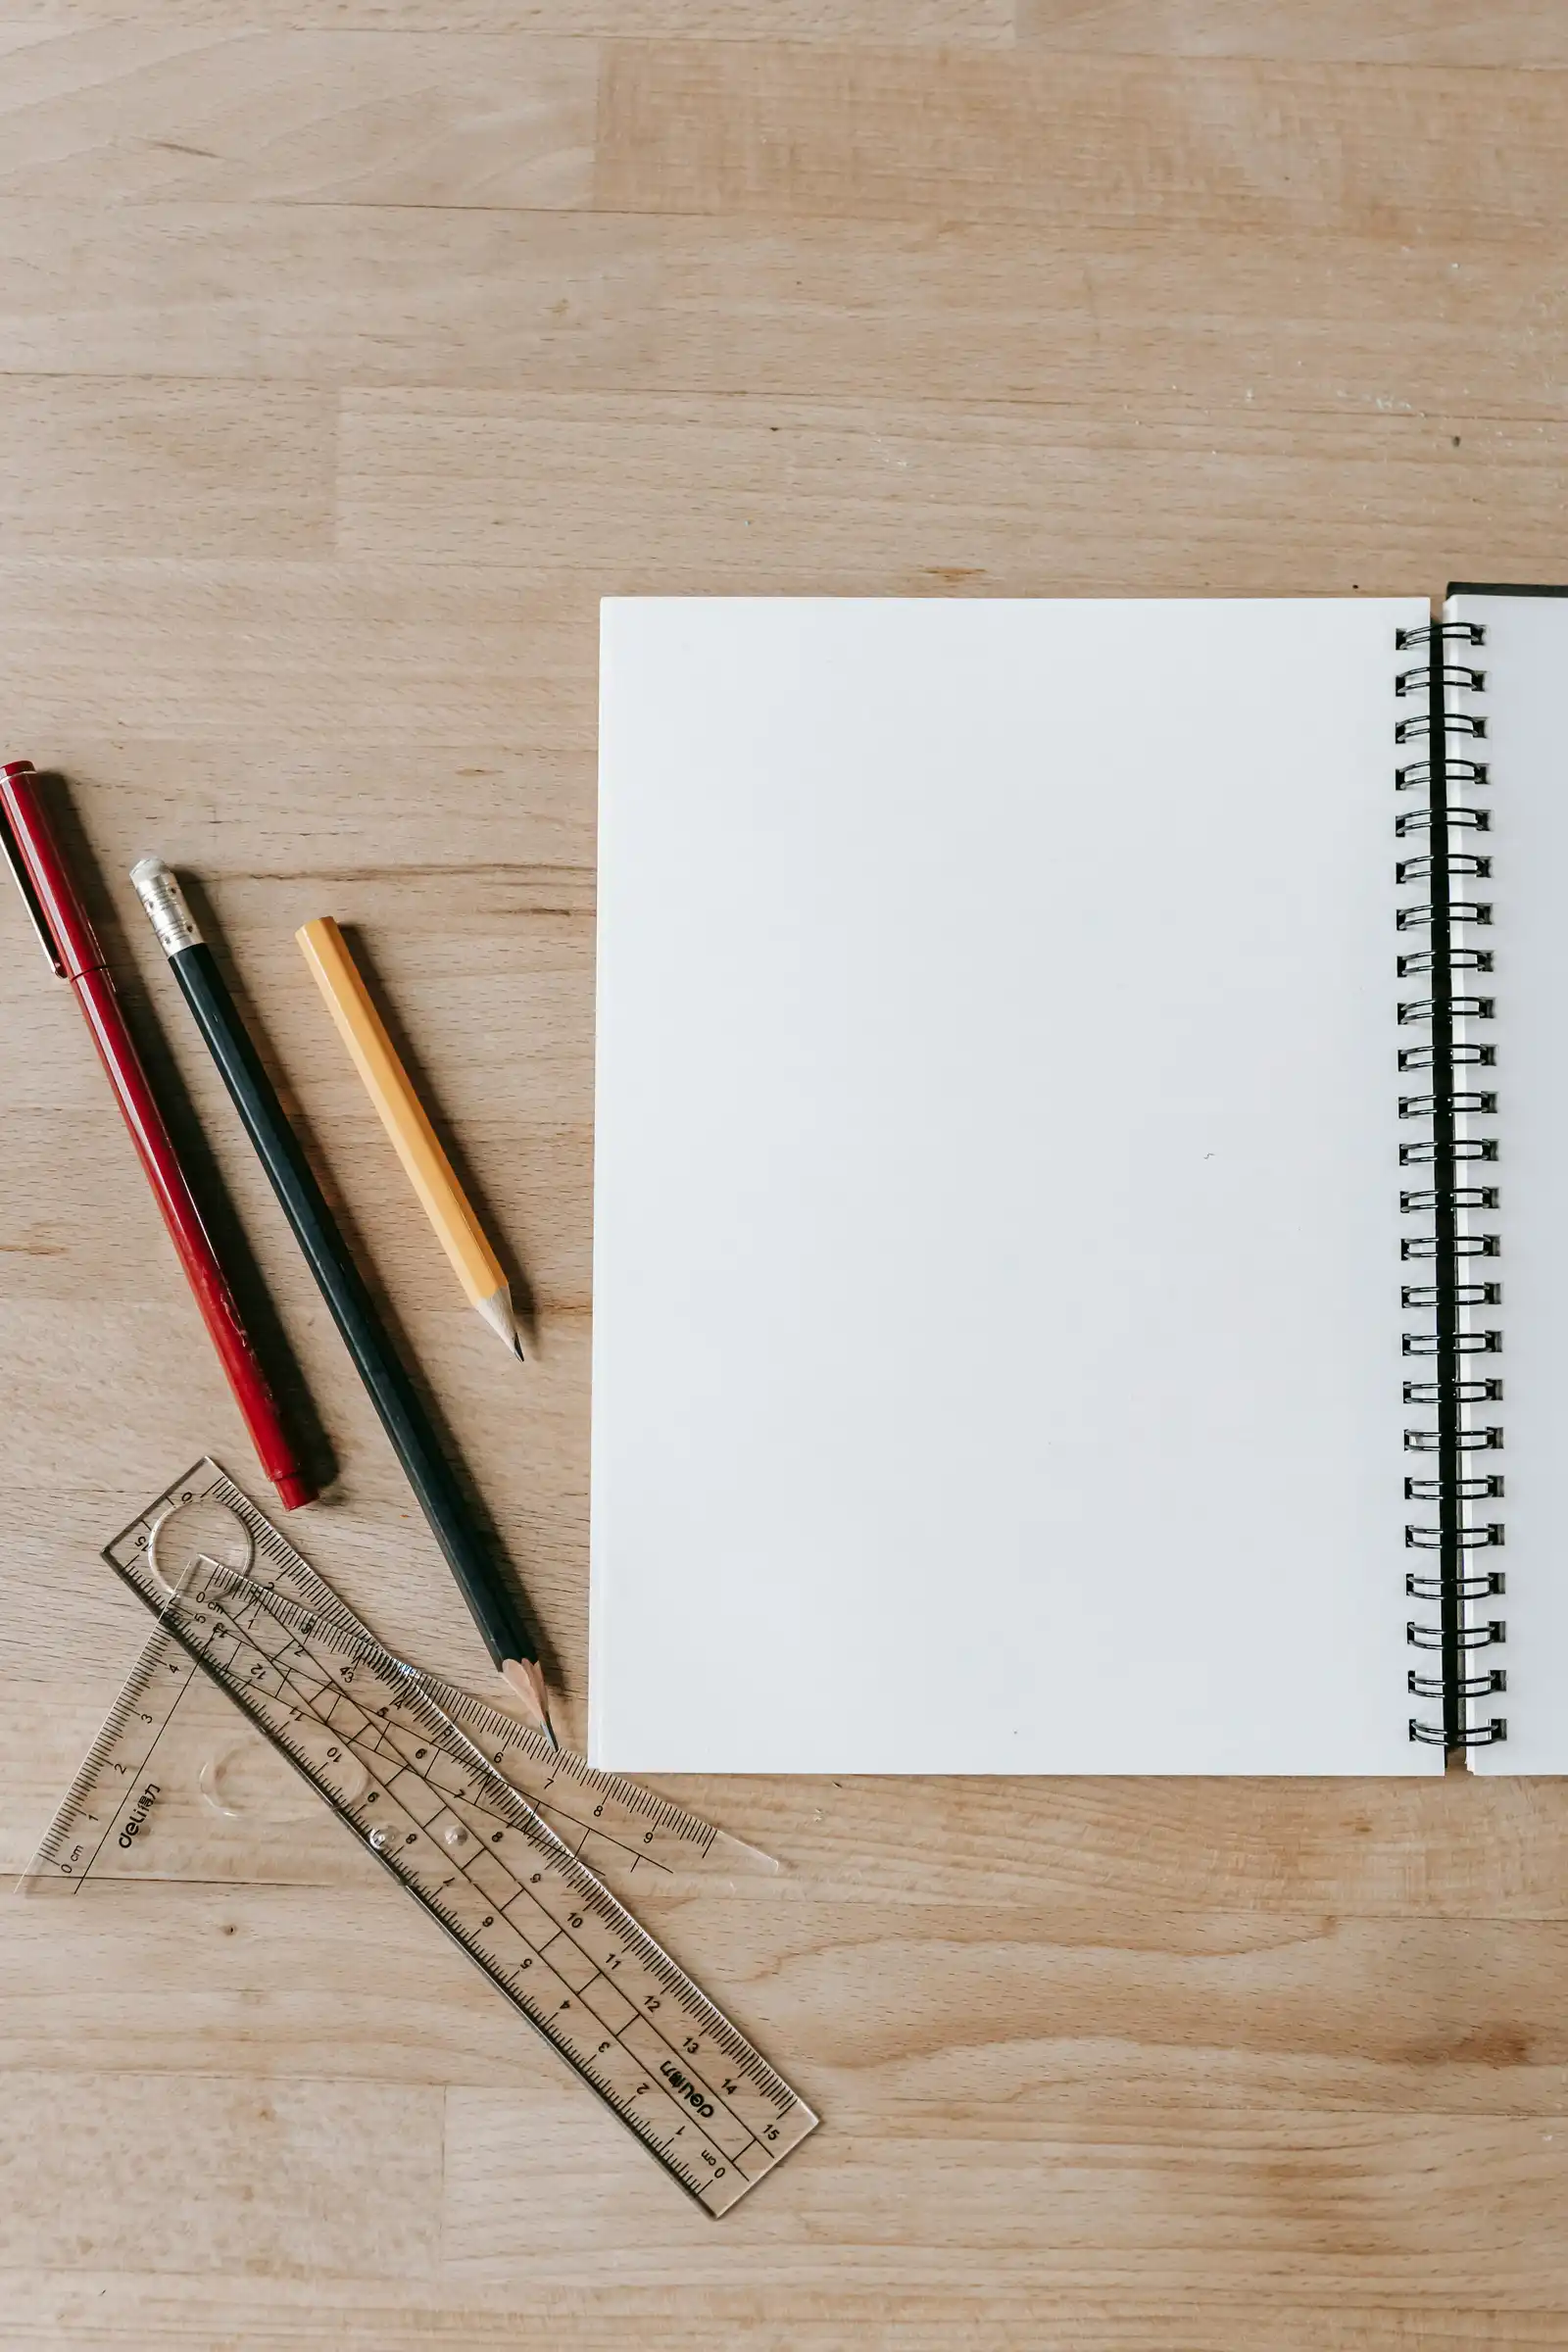
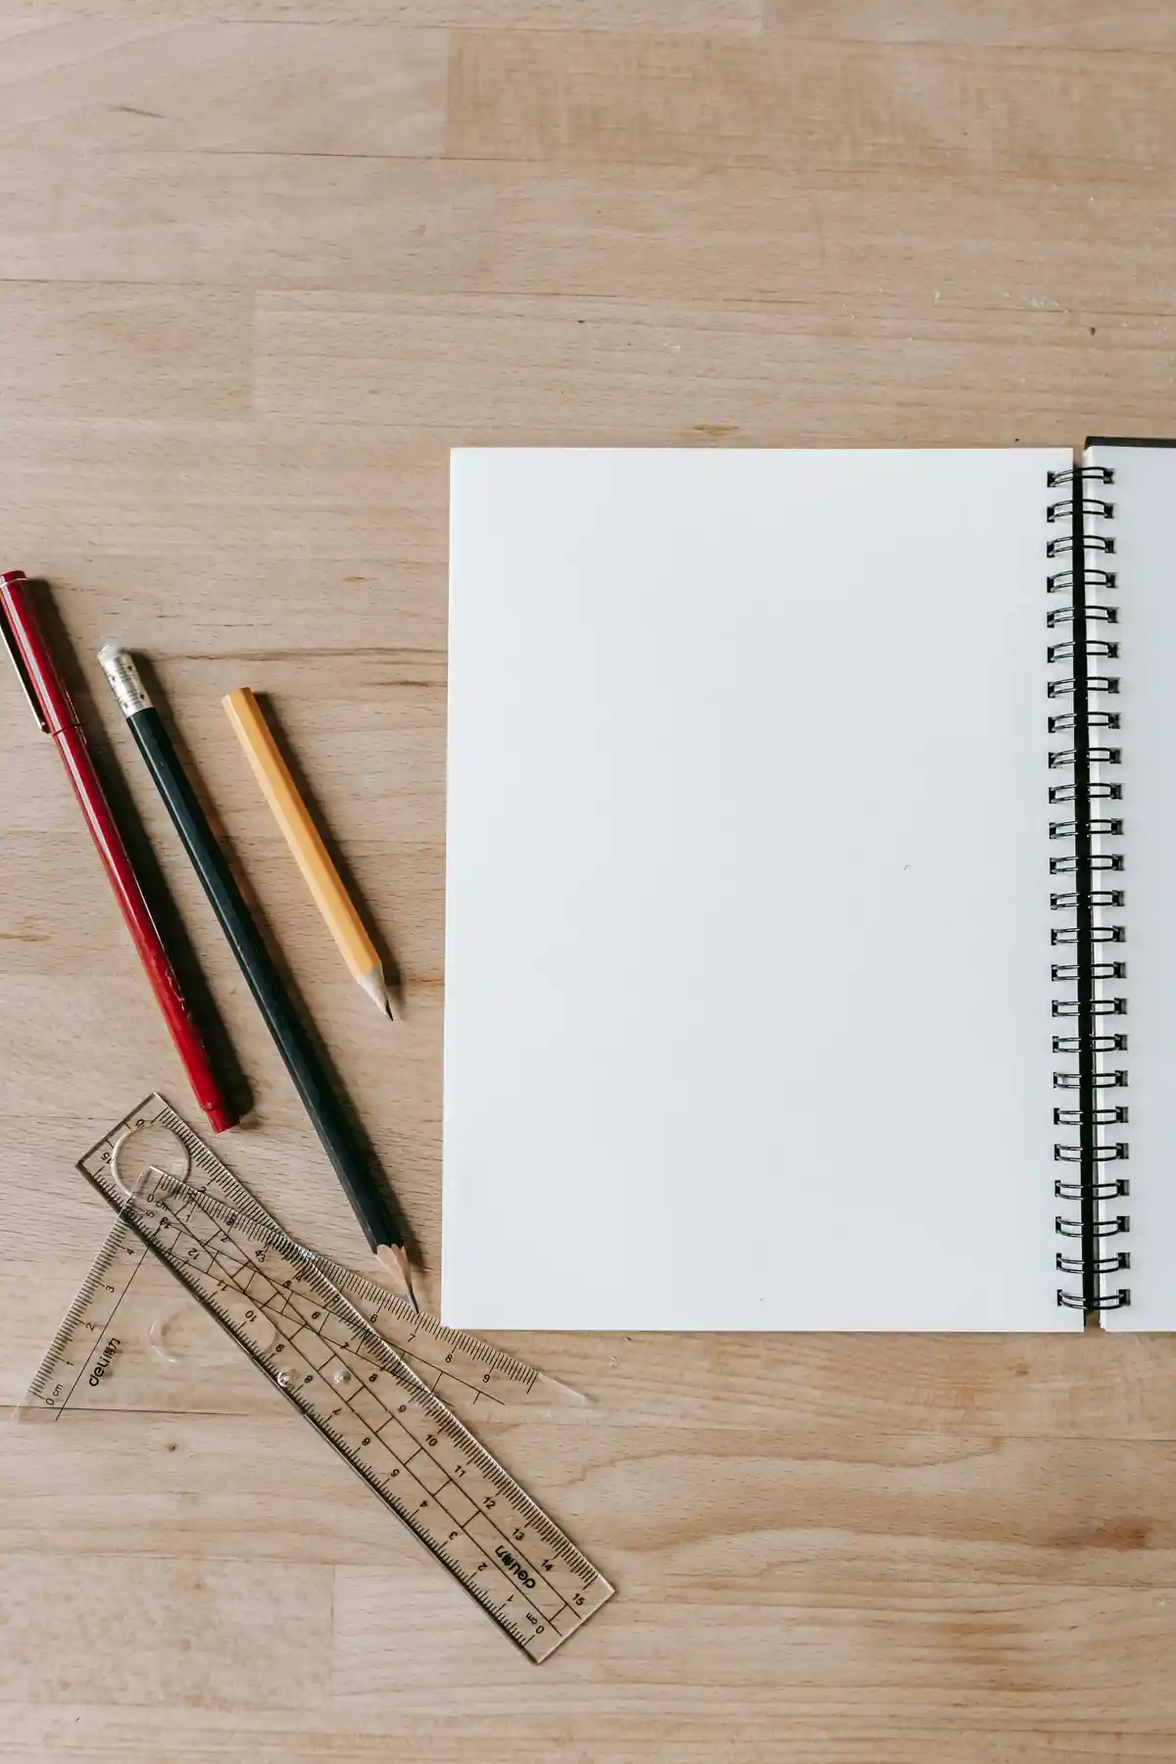
SEO optimization pt2

diff --git a/src/app/components/scroll/SmoothScroll.tsx b/src/app/components/scroll/SmoothScroll.tsx
@@ -1,7 +1,6 @@
 "use client";
 
 import { useEffect, useRef } from "react";
-import Lenis from "lenis";
 
 export default function SmoothScroll({
   children,
@@ -11,44 +10,66 @@ export default function SmoothScroll({
   const rafId = useRef<number | null>(null);
 
   useEffect(() => {
-    const lenis = new Lenis({
-      duration: 1.6,
-      easing: (t) => Math.min(1, 1.001 - Math.pow(2, -10 * t)),
-      orientation: "vertical",
-      gestureOrientation: "vertical",
-      smoothWheel: true,
-      touchMultiplier: 0.7,
-    });
+    // Skip smooth scroll on touch/mobile devices — native scroll is better
+    const isTouchDevice =
+      "ontouchstart" in window || navigator.maxTouchPoints > 0;
+    if (isTouchDevice) return;
 
-    (window as any).lenis = lenis;
+    // Defer Lenis initialization to avoid blocking main thread during load
+    const init = () => {
+      import("lenis").then(({ default: Lenis }) => {
+        const lenis = new Lenis({
+          duration: 1.6,
+          easing: (t) => Math.min(1, 1.001 - Math.pow(2, -10 * t)),
+          orientation: "vertical",
+          gestureOrientation: "vertical",
+          smoothWheel: true,
+          touchMultiplier: 0.7,
+        });
 
-    const raf = (time: number) => {
-      lenis.raf(time);
-      rafId.current = requestAnimationFrame(raf);
+        (window as any).lenis = lenis;
+
+        const raf = (time: number) => {
+          lenis.raf(time);
+          rafId.current = requestAnimationFrame(raf);
+        };
+        rafId.current = requestAnimationFrame(raf);
+
+        // Keep Lenis in sync with layout changes
+        const ro = new ResizeObserver(() => {
+          requestAnimationFrame(() => lenis.resize());
+        });
+        ro.observe(document.body);
+
+        const onResize = () => lenis.resize();
+        window.addEventListener("resize", onResize);
+
+        // Store cleanup for unmount
+        (window as any).__lenisCleanup = () => {
+          if (rafId.current) cancelAnimationFrame(rafId.current);
+          rafId.current = null;
+          window.removeEventListener("resize", onResize);
+          ro.disconnect();
+          lenis.destroy();
+          if ((window as any).lenis === lenis) {
+            (window as any).lenis = undefined;
+          }
+        };
+      });
     };
-    rafId.current = requestAnimationFrame(raf);
 
-    // Keep Lenis in sync with layout changes (expands, fonts, images, transitions)
-    const ro = new ResizeObserver(() => {
-      requestAnimationFrame(() => lenis.resize());
-    });
-    ro.observe(document.body);
-
-    const onResize = () => lenis.resize();
-    window.addEventListener("resize", onResize);
-    window.addEventListener("load", onResize);
+    // Use requestIdleCallback to defer initialization after critical rendering
+    if ("requestIdleCallback" in window) {
+      (window as any).__lenisIdleId = requestIdleCallback(init);
+    } else {
+      setTimeout(init, 100);
+    }
 
     return () => {
-      if (rafId.current) cancelAnimationFrame(rafId.current);
-      rafId.current = null;
-
-      window.removeEventListener("resize", onResize);
-      window.removeEventListener("load", onResize);
-
-      ro.disconnect();
-      lenis.destroy();
-
-      if ((window as any).lenis === lenis) (window as any).lenis = undefined;
+      if ((window as any).__lenisIdleId) {
+        cancelIdleCallback((window as any).__lenisIdleId);
+      }
+      (window as any).__lenisCleanup?.();
     };
   }, []);
 

diff --git a/src/app/layout.tsx b/src/app/layout.tsx
@@ -53,6 +53,19 @@ export default function RootLayout({
   return (
     <html lang="hr" className={font.variable}>
       <head>
+        {/* Preload LCP hero images for faster discovery */}
+        <link
+          rel="preload"
+          href="/calculator.webp"
+          as="image"
+          type="image/webp"
+        />
+        <link
+          rel="preload"
+          href="/registratori_side_image.webp"
+          as="image"
+          type="image/webp"
+        />
         <script
           type="application/ld+json"
           dangerouslySetInnerHTML={{ __html: JSON.stringify(jsonLd) }}

diff --git a/src/app/globals.css b/src/app/globals.css
@@ -46,7 +46,7 @@ body {
 @keyframes pageEnter {
   from {
     opacity: 0;
-    transform: translateY(8px);
+    transform: translateY(4px);
   }
   to {
     opacity: 1;
@@ -55,8 +55,7 @@ body {
 }
 
 .page-enter {
-  animation: pageEnter 900ms cubic-bezier(0.22, 1, 0.36, 1) both;
-  will-change: opacity, transform;
+  animation: pageEnter 400ms cubic-bezier(0.22, 1, 0.36, 1) both;
 }
 
 /* Premium € animations - synced at 50% (peak scale = shine) */
